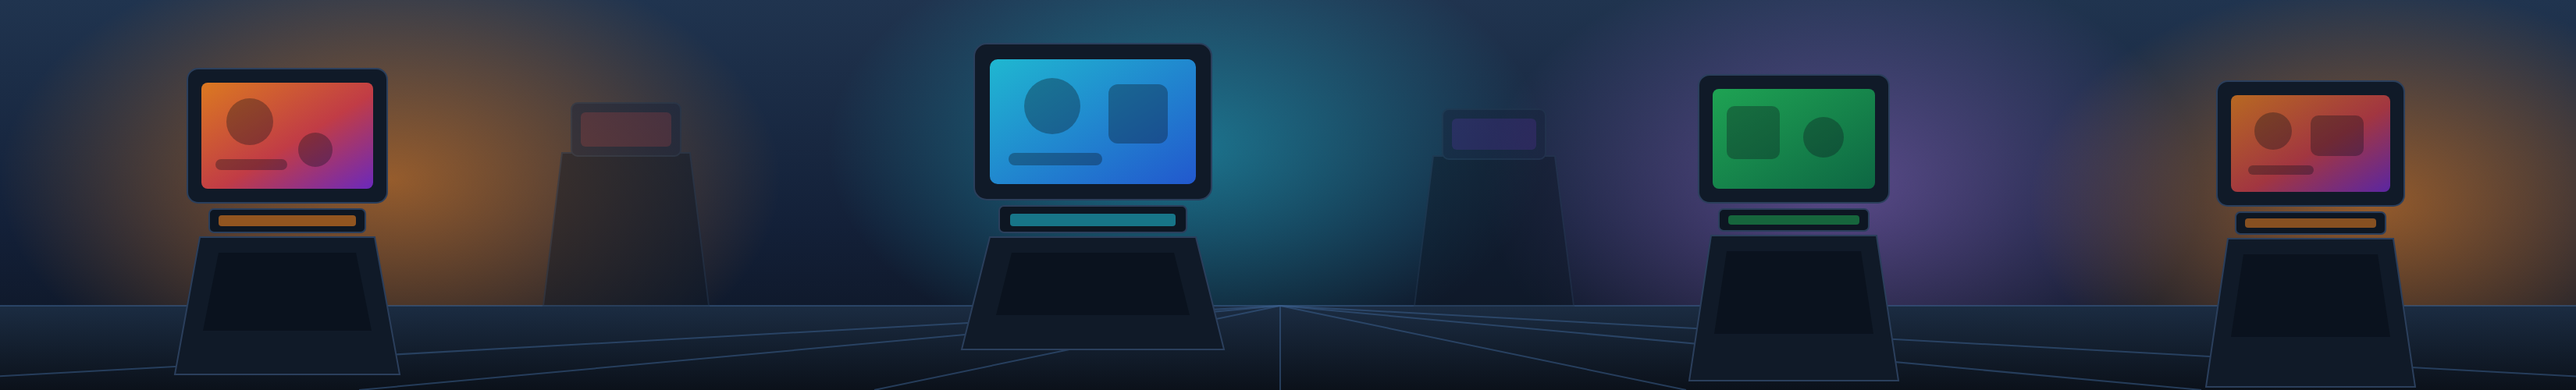
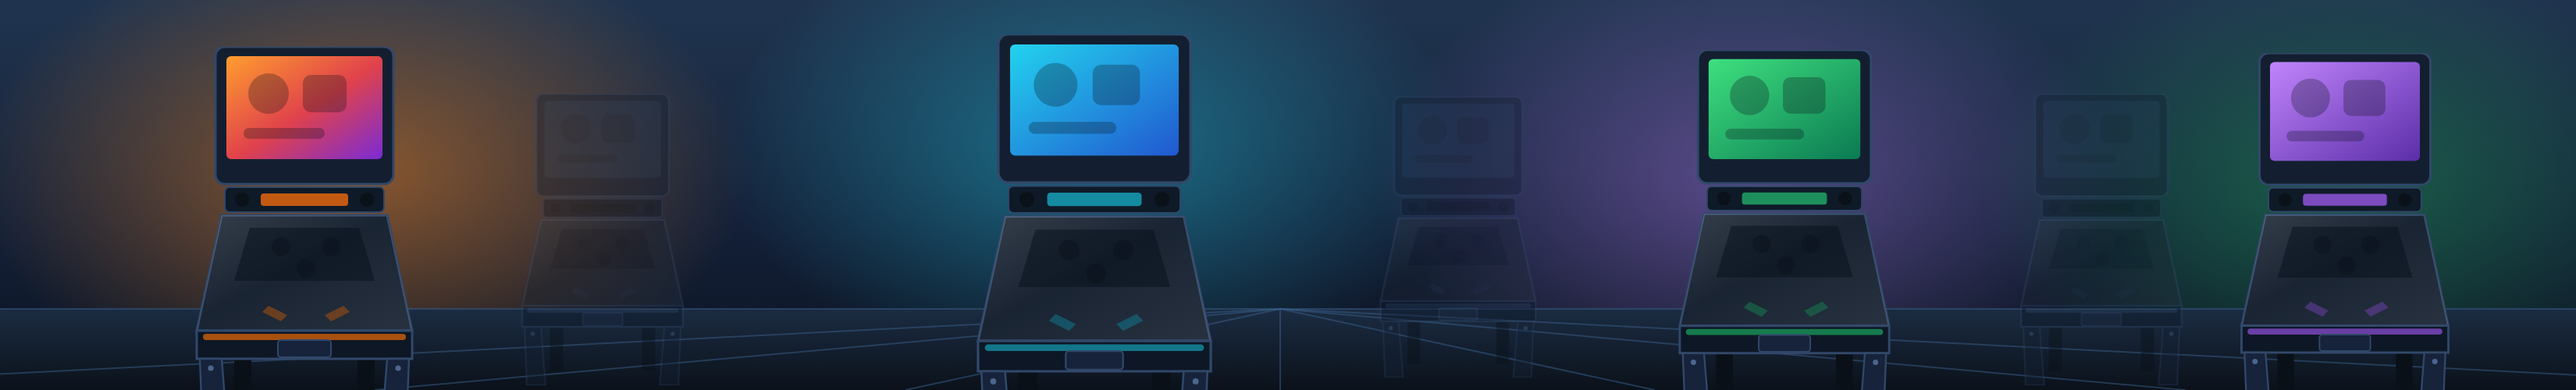
fix(ui): redraw the band as real pinball machines, give the table its height back
Two things Maxime called out on the first build, both fair.

The cabinets read as computer monitors on stands. They were missing the
one silhouette cue that says "pinball": legs. Redrawn with the full
shape -- upright backbox, speaker panel with a DMD slot, playfield glass
receding toward the player with bumpers and flippers under it, lockdown
rail, coin door, and four legs with bolts.

Also fixed while redrawing: the per-machine colours never applied,
because CSS class selectors do not reach inside the shadow tree a
<use> element creates. Switched to CSS custom properties, which do
inherit into it.

The findings table had been squeezed to about two rows. The band is now
noticeably shorter (smaller gauge, tighter pills and paddings) and the
search box moved out of it to sit directly above the list -- which is
also where it belongs, since it filters that list.

Gauge geometry changed, so the arc constant moved with it: 2*pi*45/8 =
35.34, now a named const next to the comment that explains it.

Claude-Session: https://claude.ai/code/session_01NWmCrQoX1352P64FHzaY6T

diff --git a/src/PincabToolbox.App/MainWindow.xaml b/src/PincabToolbox.App/MainWindow.xaml
@@ -158,7 +158,7 @@
                                 </LinearGradientBrush>
                             </Border.Background>
 
-                            <Grid Margin="20,16">
+                            <Grid Margin="18,11">
                                 <Grid.ColumnDefinitions>
                                     <ColumnDefinition Width="Auto"/>
                                     <ColumnDefinition Width="*"/>
@@ -166,13 +166,14 @@
                                 </Grid.ColumnDefinitions>
 
                                 <!-- ─── jauge ─── -->
-                                <Grid x:Name="ScoreChip" Grid.Column="0" Width="124" Height="124"
-                                      Visibility="Collapsed" Margin="0,0,20,0" VerticalAlignment="Center">
-                                    <Ellipse Width="106" Height="106" Stroke="#1E2B3C" StrokeThickness="9"/>
+                                <Grid x:Name="ScoreChip" Grid.Column="0" Width="102" Height="102"
+                                      Visibility="Collapsed" Margin="0,0,18,0" VerticalAlignment="Center">
+                                    <Ellipse Width="90" Height="90" Stroke="#1E2B3C" StrokeThickness="8"/>
                                     <!-- L'arc de progression est un cercle dont le tiret est calculé en
-                                         code-behind (RefreshList) : circonférence / épaisseur = 37.0 unités
-                                         pour 100 %. Pas de géométrie d'arc à recalculer à la main. -->
-                                    <Ellipse x:Name="ScoreArc" Width="106" Height="106" StrokeThickness="9"
+                                         code-behind (RefreshList) : circonférence / épaisseur = 35.34
+                                         unités pour 100 %. Pas de géométrie d'arc à recalculer à la main.
+                                         Si le diamètre ou l'épaisseur changent ici, ce nombre change aussi. -->
+                                    <Ellipse x:Name="ScoreArc" Width="90" Height="90" StrokeThickness="8"
                                              Stroke="{StaticResource Critical}" StrokeDashCap="Round"
                                              StrokeStartLineCap="Round" StrokeEndLineCap="Round"
                                              RenderTransformOrigin="0.5,0.5">
@@ -181,53 +182,48 @@
                                         </Ellipse.RenderTransform>
                                     </Ellipse>
                                     <StackPanel VerticalAlignment="Center" HorizontalAlignment="Center">
-                                        <TextBlock x:Name="ScoreValue" FontWeight="Black" FontSize="34"
+                                        <TextBlock x:Name="ScoreValue" FontWeight="Black" FontSize="27"
                                                    HorizontalAlignment="Center"/>
-                                        <TextBlock Text="/100" Foreground="{StaticResource TextDim}" FontSize="11"
-                                                   HorizontalAlignment="Center" Margin="0,-2,0,0"/>
-                                        <Border BorderBrush="{StaticResource Border}" BorderThickness="1"
-                                                CornerRadius="4" Padding="6,1" Margin="0,5,0,0"
-                                                HorizontalAlignment="Center">
-                                            <TextBlock x:Name="ScoreGrade" FontWeight="Bold" FontSize="11"/>
-                                        </Border>
+                                        <TextBlock x:Name="ScoreGrade" FontWeight="Bold" FontSize="10"
+                                                   HorizontalAlignment="Center" Margin="0,-1,0,0"/>
                                     </StackPanel>
                                 </Grid>
 
                                 <!-- ─── accroche + pastilles ─── -->
                                 <StackPanel Grid.Column="1" VerticalAlignment="Center">
-                                    <TextBlock x:Name="HeroHeadline" FontSize="20" FontWeight="Bold"
+                                    <TextBlock x:Name="HeroHeadline" FontSize="18" FontWeight="Bold"
                                                Foreground="{StaticResource Text}" TextWrapping="Wrap"/>
                                     <TextBlock x:Name="ScoreStatus" Foreground="{StaticResource TextDim}"
-                                               FontSize="13" TextWrapping="Wrap" Margin="0,4,0,0"/>
+                                               FontSize="12.5" TextWrapping="Wrap" Margin="0,3,0,0"/>
 
-                                    <WrapPanel Margin="0,12,0,0">
-                                        <Border x:Name="PillCritical" Background="{StaticResource Panel}" BorderBrush="{StaticResource Border}" BorderThickness="1" CornerRadius="10" Padding="12,7" Margin="0,0,8,6" Cursor="Hand" MouseLeftButtonUp="PillCritical_Click">
+                                    <WrapPanel Margin="0,9,0,0">
+                                        <Border x:Name="PillCritical" Background="{StaticResource Panel}" BorderBrush="{StaticResource Border}" BorderThickness="1" CornerRadius="9" Padding="10,5" Margin="0,0,7,5" Cursor="Hand" MouseLeftButtonUp="PillCritical_Click">
                                             <StackPanel Orientation="Horizontal">
-                                                <Rectangle Width="3" Height="22" RadiusX="1.5" RadiusY="1.5" Fill="{StaticResource Critical}" Margin="0,0,8,0"/>
+                                                <Rectangle Width="3" Height="17" RadiusX="1.5" RadiusY="1.5" Fill="{StaticResource Critical}" Margin="0,0,8,0"/>
                                                 <TextBlock x:Name="ChipCritical" Text="0" Foreground="{StaticResource Critical}" FontWeight="Bold" VerticalAlignment="Center"/>
                                             </StackPanel>
                                         </Border>
-                                        <Border x:Name="PillWarning" Background="{StaticResource Panel}" BorderBrush="{StaticResource Border}" BorderThickness="1" CornerRadius="10" Padding="12,7" Margin="0,0,8,6" Cursor="Hand" MouseLeftButtonUp="PillWarning_Click">
+                                        <Border x:Name="PillWarning" Background="{StaticResource Panel}" BorderBrush="{StaticResource Border}" BorderThickness="1" CornerRadius="9" Padding="10,5" Margin="0,0,7,5" Cursor="Hand" MouseLeftButtonUp="PillWarning_Click">
                                             <StackPanel Orientation="Horizontal">
-                                                <Rectangle Width="3" Height="22" RadiusX="1.5" RadiusY="1.5" Fill="{StaticResource Warning}" Margin="0,0,8,0"/>
+                                                <Rectangle Width="3" Height="17" RadiusX="1.5" RadiusY="1.5" Fill="{StaticResource Warning}" Margin="0,0,8,0"/>
                                                 <TextBlock x:Name="ChipWarning" Text="0" Foreground="{StaticResource Warning}" FontWeight="Bold" VerticalAlignment="Center"/>
                                             </StackPanel>
                                         </Border>
-                                        <Border x:Name="PillNote" Background="{StaticResource Panel}" BorderBrush="{StaticResource Border}" BorderThickness="1" CornerRadius="10" Padding="12,7" Margin="0,0,8,6" Cursor="Hand" MouseLeftButtonUp="PillNote_Click">
+                                        <Border x:Name="PillNote" Background="{StaticResource Panel}" BorderBrush="{StaticResource Border}" BorderThickness="1" CornerRadius="9" Padding="10,5" Margin="0,0,7,5" Cursor="Hand" MouseLeftButtonUp="PillNote_Click">
                                             <StackPanel Orientation="Horizontal">
-                                                <Rectangle Width="3" Height="22" RadiusX="1.5" RadiusY="1.5" Fill="{StaticResource NoteSev}" Margin="0,0,8,0"/>
+                                                <Rectangle Width="3" Height="17" RadiusX="1.5" RadiusY="1.5" Fill="{StaticResource NoteSev}" Margin="0,0,8,0"/>
                                                 <TextBlock x:Name="ChipNote" Text="0" Foreground="{StaticResource NoteSev}" FontWeight="Bold" VerticalAlignment="Center"/>
                                             </StackPanel>
                                         </Border>
-                                        <Border x:Name="PillInfo" Background="{StaticResource Panel}" BorderBrush="{StaticResource Border}" BorderThickness="1" CornerRadius="10" Padding="12,7" Margin="0,0,8,6" Cursor="Hand" MouseLeftButtonUp="PillInfo_Click">
+                                        <Border x:Name="PillInfo" Background="{StaticResource Panel}" BorderBrush="{StaticResource Border}" BorderThickness="1" CornerRadius="9" Padding="10,5" Margin="0,0,7,5" Cursor="Hand" MouseLeftButtonUp="PillInfo_Click">
                                             <StackPanel Orientation="Horizontal">
-                                                <Rectangle Width="3" Height="22" RadiusX="1.5" RadiusY="1.5" Fill="{StaticResource InfoSev}" Margin="0,0,8,0"/>
+                                                <Rectangle Width="3" Height="17" RadiusX="1.5" RadiusY="1.5" Fill="{StaticResource InfoSev}" Margin="0,0,8,0"/>
                                                 <TextBlock x:Name="ChipInfo" Text="0" Foreground="{StaticResource InfoSev}" FontWeight="Bold" VerticalAlignment="Center"/>
                                             </StackPanel>
                                         </Border>
-                                        <Border x:Name="PillOk" Background="{StaticResource Panel}" BorderBrush="{StaticResource Border}" BorderThickness="1" CornerRadius="10" Padding="12,7" Margin="0,0,8,6" Cursor="Hand" Opacity="0.4" MouseLeftButtonUp="PillOk_Click">
+                                        <Border x:Name="PillOk" Background="{StaticResource Panel}" BorderBrush="{StaticResource Border}" BorderThickness="1" CornerRadius="9" Padding="10,5" Margin="0,0,7,5" Cursor="Hand" Opacity="0.4" MouseLeftButtonUp="PillOk_Click">
                                             <StackPanel Orientation="Horizontal">
-                                                <Rectangle Width="3" Height="22" RadiusX="1.5" RadiusY="1.5" Fill="{StaticResource OkSev}" Margin="0,0,8,0"/>
+                                                <Rectangle Width="3" Height="17" RadiusX="1.5" RadiusY="1.5" Fill="{StaticResource OkSev}" Margin="0,0,8,0"/>
                                                 <TextBlock x:Name="ChipOk" Text="0" Foreground="{StaticResource OkSev}" FontWeight="Bold" VerticalAlignment="Center"/>
                                             </StackPanel>
                                         </Border>
@@ -235,18 +231,11 @@
                                 </StackPanel>
 
                                 <!-- ─── actions ─── -->
-                                <StackPanel Grid.Column="2" VerticalAlignment="Center" Width="212" Margin="18,0,0,0">
+                                <StackPanel Grid.Column="2" VerticalAlignment="Center" Width="206" Margin="16,0,0,0">
                                     <Button x:Name="BtnScan" Style="{StaticResource AccentButton}" Click="BtnScan_Click"
-                                            Padding="14,11" FontSize="14" FontWeight="Bold"/>
-                                    <Button x:Name="BtnExport" Margin="0,8,0,0" Click="BtnExport_Click" IsEnabled="False" Padding="10,8"/>
-                                    <Button x:Name="BtnCopyForum" Margin="0,8,0,0" Click="BtnCopyForum_Click" IsEnabled="False" Padding="10,8"/>
-                                    <Grid Height="34" Margin="0,8,0,0">
-                                        <TextBox x:Name="TxtSearch" VerticalContentAlignment="Center" Padding="6,0,0,0"
-                                                 Background="{StaticResource Panel}" Foreground="{StaticResource Text}"
-                                                 BorderBrush="{StaticResource Border}" TextChanged="TxtSearch_TextChanged"/>
-                                        <TextBlock x:Name="SearchHint" IsHitTestVisible="False" Foreground="{StaticResource TextDim}"
-                                                   VerticalAlignment="Center" Margin="9,0,0,0"/>
-                                    </Grid>
+                                            Padding="14,10" FontSize="14" FontWeight="Bold"/>
+                                    <Button x:Name="BtnExport" Margin="0,7,0,0" Click="BtnExport_Click" IsEnabled="False" Padding="10,7"/>
+                                    <Button x:Name="BtnCopyForum" Margin="0,7,0,0" Click="BtnCopyForum_Click" IsEnabled="False" Padding="10,7"/>
                                 </StackPanel>
                             </Grid>
                         </Border>
@@ -271,6 +260,16 @@
                         <!-- Écran 1 — free aggregate offer, computed by RepairOfferBuilder from the real plan -->
                         <TextBlock x:Name="RepairSummaryLine" Visibility="Collapsed" Foreground="{StaticResource Accent}"
                                    FontSize="12.5" FontWeight="SemiBold" TextWrapping="Wrap" Margin="2,0,2,6"/>
+
+                        <!-- La recherche filtre la LISTE : sa place est juste au-dessus d'elle, pas dans
+                             le bandeau, où elle volait de la hauteur au tableau des résultats. -->
+                        <Grid Width="260" Height="30" HorizontalAlignment="Right" Margin="0,0,0,6">
+                            <TextBox x:Name="TxtSearch" VerticalContentAlignment="Center" Padding="6,0,0,0"
+                                     Background="{StaticResource Panel}" Foreground="{StaticResource Text}"
+                                     BorderBrush="{StaticResource Border}" TextChanged="TxtSearch_TextChanged"/>
+                            <TextBlock x:Name="SearchHint" IsHitTestVisible="False" Foreground="{StaticResource TextDim}"
+                                       VerticalAlignment="Center" Margin="9,0,0,0"/>
+                        </Grid>
                         <!-- ADR-006 anti-survente : ce que Repair NE fera jamais, même une fois acheté
                              (RepairOffer.NotAutomatable) — affiché AVANT l'achat, jamais caché. -->
                         <TextBlock x:Name="RepairNotAutomatableLine" Visibility="Collapsed" Foreground="{StaticResource TextDim}"

diff --git a/docs/maquette-scanner-2026-08-11.html b/docs/maquette-scanner-2026-08-11.html
@@ -334,120 +334,115 @@ body{
 
         <!-- Scène de salle d'arcade, dessinée à la main en SVG.
              Silhouettes génériques : aucune machine réelle, aucun artwork sous copyright. -->
-        <svg class="scene" viewBox="0 0 1650 250" preserveAspectRatio="xMidYMin slice">
-          <defs>
-            <linearGradient id="room" x1="0" y1="0" x2="0" y2="1">
-              <stop offset="0%" stop-color="#20344f"/>
-              <stop offset="58%" stop-color="#132038"/><stop offset="100%" stop-color="#0c1320"/>
-            </linearGradient>
-            <radialGradient id="neonO" cx="50%" cy="50%" r="50%">
-              <stop offset="0%" stop-color="#ff8a1f" stop-opacity=".55"/>
-              <stop offset="100%" stop-color="#ff8a1f" stop-opacity="0"/>
-            </radialGradient>
-            <radialGradient id="neonC" cx="50%" cy="50%" r="50%">
-              <stop offset="0%" stop-color="#22d3ee" stop-opacity=".45"/>
-              <stop offset="100%" stop-color="#22d3ee" stop-opacity="0"/>
-            </radialGradient>
-            <radialGradient id="neonP" cx="50%" cy="50%" r="50%">
-              <stop offset="0%" stop-color="#c084fc" stop-opacity=".4"/>
-              <stop offset="100%" stop-color="#c084fc" stop-opacity="0"/>
-            </radialGradient>
-            <linearGradient id="glassA" x1="0" y1="0" x2="1" y2="1">
-              <stop offset="0%" stop-color="#ff8a1f"/><stop offset="55%" stop-color="#e0424b"/>
-              <stop offset="100%" stop-color="#7b2bd6"/>
-            </linearGradient>
-            <linearGradient id="glassB" x1="0" y1="0" x2="1" y2="1">
-              <stop offset="0%" stop-color="#22d3ee"/><stop offset="100%" stop-color="#2563eb"/>
-            </linearGradient>
-            <linearGradient id="glassC" x1="0" y1="0" x2="1" y2="1">
-              <stop offset="0%" stop-color="#22c55e"/><stop offset="100%" stop-color="#0d7a4a"/>
-            </linearGradient>
-            <linearGradient id="floor" x1="0" y1="0" x2="0" y2="1">
-              <stop offset="0%" stop-color="#1b2c42"/><stop offset="100%" stop-color="#0b111a"/>
-            </linearGradient>
-          </defs>
+        <svg class="scene" viewBox="0 0 1650 250" xmlns="http://www.w3.org/2000/svg">
+  <defs>
+    <linearGradient id="room" x1="0" y1="0" x2="0" y2="1">
+      <stop offset="0%" stop-color="#20344f"/><stop offset="58%" stop-color="#132038"/>
+      <stop offset="100%" stop-color="#0c1320"/>
+    </linearGradient>
+    <linearGradient id="floor" x1="0" y1="0" x2="0" y2="1">
+      <stop offset="0%" stop-color="#1b2c42"/><stop offset="100%" stop-color="#0b111a"/>
+    </linearGradient>
+    <radialGradient id="neonO" cx="50%" cy="50%" r="50%">
+      <stop offset="0%" stop-color="#ff8a1f" stop-opacity=".5"/><stop offset="100%" stop-color="#ff8a1f" stop-opacity="0"/>
+    </radialGradient>
+    <radialGradient id="neonC" cx="50%" cy="50%" r="50%">
+      <stop offset="0%" stop-color="#22d3ee" stop-opacity=".42"/><stop offset="100%" stop-color="#22d3ee" stop-opacity="0"/>
+    </radialGradient>
+    <radialGradient id="neonP" cx="50%" cy="50%" r="50%">
+      <stop offset="0%" stop-color="#c084fc" stop-opacity=".4"/><stop offset="100%" stop-color="#c084fc" stop-opacity="0"/>
+    </radialGradient>
+    <radialGradient id="neonG" cx="50%" cy="50%" r="50%">
+      <stop offset="0%" stop-color="#22c55e" stop-opacity=".36"/><stop offset="100%" stop-color="#22c55e" stop-opacity="0"/>
+    </radialGradient>
 
-          <rect width="1650" height="250" fill="url(#room)"/>
-          <!-- halos néon d'ambiance -->
-          <ellipse cx="250" cy="115" rx="250" ry="150" fill="url(#neonO)"/>
-          <ellipse cx="760" cy="95" rx="230" ry="140" fill="url(#neonC)"/>
-          <ellipse cx="1180" cy="120" rx="230" ry="150" fill="url(#neonP)"/>
-          <ellipse cx="1520" cy="130" rx="220" ry="140" fill="url(#neonO)"/>
+    <linearGradient id="bgA" x1="0" y1="0" x2="1" y2="1">
+      <stop offset="0%" stop-color="#ff9d2f"/><stop offset="52%" stop-color="#e0424b"/><stop offset="100%" stop-color="#7b2bd6"/>
+    </linearGradient>
+    <linearGradient id="bgB" x1="0" y1="0" x2="1" y2="1">
+      <stop offset="0%" stop-color="#22d3ee"/><stop offset="100%" stop-color="#2158d0"/>
+    </linearGradient>
+    <linearGradient id="bgC" x1="0" y1="0" x2="1" y2="1">
+      <stop offset="0%" stop-color="#3ee07f"/><stop offset="100%" stop-color="#0b7a52"/>
+    </linearGradient>
+    <linearGradient id="bgD" x1="0" y1="0" x2="1" y2="1">
+      <stop offset="0%" stop-color="#c084fc"/><stop offset="100%" stop-color="#5b2ea8"/>
+    </linearGradient>
+    <!-- verre du plateau : reflet en diagonale -->
+    <linearGradient id="glass" x1="0" y1="0" x2="1" y2="1">
+      <stop offset="0%" stop-color="#ffffff" stop-opacity=".16"/>
+      <stop offset="45%" stop-color="#ffffff" stop-opacity=".04"/>
+      <stop offset="100%" stop-color="#ffffff" stop-opacity=".10"/>
+    </linearGradient>
 
-          <!-- sol en perspective -->
-          <rect y="196" width="1650" height="54" fill="url(#floor)"/>
-          <g stroke="#3a5f8c" stroke-opacity=".55" stroke-width="1">
-            <line x1="0" y1="196" x2="1650" y2="196"/>
-            <line x1="820" y1="196" x2="-160" y2="250"/><line x1="820" y1="196" x2="230" y2="250"/>
-            <line x1="820" y1="196" x2="560" y2="250"/><line x1="820" y1="196" x2="820" y2="250"/>
-            <line x1="820" y1="196" x2="1080" y2="250"/><line x1="820" y1="196" x2="1410" y2="250"/>
-            <line x1="820" y1="196" x2="1810" y2="250"/>
-          </g>
+    <!-- UN FLIPPER : fronton vertical, panneau haut-parleurs, plateau vitré en fuite,
+         fronton de caisse avec monnayeur, et surtout QUATRE PIEDS — c'est le pied qui
+         fait lire "flipper" plutôt qu'"écran sur socle". -->
+    <symbol id="cab" viewBox="0 0 150 250">
+      <!-- pieds arrière (derrière la caisse) -->
+      <rect x="30" y="168" width="11" height="70" rx="2" fill="#0a1017"/>
+      <rect x="109" y="168" width="11" height="70" rx="2" fill="#0a1017"/>
+      <!-- fronton -->
+      <rect x="18" y="0" width="114" height="88" rx="6" fill="#131f30" stroke="#31486a" stroke-width="1.5"/>
+      <rect x="25" y="6" width="100" height="66" rx="3" fill="var(--bg,#22344e)"/>
+      <g fill="#0a111a" opacity=".28">
+        <circle cx="52" cy="30" r="13"/><rect x="74" y="18" width="28" height="24" rx="5"/>
+        <rect x="36" y="52" width="52" height="7" rx="3.5"/>
+      </g>
+      <!-- panneau haut-parleurs + afficheur -->
+      <rect x="24" y="90" width="102" height="16" rx="3" fill="#0f1a28" stroke="#31486a"/>
+      <circle cx="35" cy="98" r="4.5" fill="#0a1119"/><circle cx="115" cy="98" r="4.5" fill="#0a1119"/>
+      <rect x="47" y="94" width="56" height="8" rx="2" fill="var(--dmd,#0a1119)"/>
+      <!-- plateau vitré, en fuite vers le joueur -->
+      <path d="M22 108 L128 108 L144 182 L6 182 Z" fill="#101b2a" stroke="#31486a" stroke-width="1.5"/>
+      <path d="M22 108 L128 108 L144 182 L6 182 Z" fill="url(#glass)"/>
+      <path d="M40 116 L110 116 L120 150 L30 150 Z" fill="#0a121d" opacity=".55"/>
+      <g fill="#0a121d" opacity=".5">
+        <circle cx="60" cy="128" r="6"/><circle cx="92" cy="128" r="6"/><circle cx="76" cy="142" r="6"/>
+      </g>
+      <g fill="var(--rail,#2a3d5a)" opacity=".55">
+        <path d="M52 166 L64 172 L60 176 L48 170 Z"/><path d="M100 166 L88 172 L92 176 L104 170 Z"/>
+      </g>
+      <!-- fronton de caisse + monnayeur -->
+      <path d="M6 182 L144 182 L144 200 L6 200 Z" fill="#0d1725" stroke="#31486a" stroke-width="1.5"/>
+      <rect x="10" y="184" width="130" height="4" rx="2" fill="var(--rail,#2a3d5a)"/>
+      <rect x="58" y="188" width="34" height="11" rx="2" fill="#16233a" stroke="#31486a"/>
+      <!-- pieds avant + boulons -->
+      <path d="M8 200 L22 200 L26 250 L10 250 Z" fill="#16233a" stroke="#31486a" stroke-width="1.2"/>
+      <path d="M128 200 L142 200 L140 250 L124 250 Z" fill="#16233a" stroke="#31486a" stroke-width="1.2"/>
+      <circle cx="15" cy="206" r="1.8" fill="#4a668f"/><circle cx="135" cy="206" r="1.8" fill="#4a668f"/>
+    </symbol>
+  </defs>
 
-          <!-- rangée de bornes : backbox (écran) + caisse en perspective -->
-          <g>
-            <!-- borne 1 -->
-            <g transform="translate(120,44)">
-              <rect x="0" y="0" width="128" height="86" rx="7" fill="#101a28" stroke="#2b3f5c"/>
-              <rect x="9" y="9" width="110" height="68" rx="4" fill="url(#glassA)" opacity=".85"/>
-              <g fill="#0b111a" opacity=".33">
-                <circle cx="40" cy="34" r="15"/><circle cx="82" cy="52" r="11"/>
-                <rect x="18" y="58" width="46" height="7" rx="3.5"/>
-              </g>
-              <rect x="14" y="90" width="100" height="15" rx="3" fill="#0d1622" stroke="#2b3f5c"/>
-              <rect x="20" y="94" width="88" height="7" rx="2" fill="#ff8a1f" opacity=".55"/>
-              <path d="M8 108 L120 108 L136 196 L-8 196 Z" fill="#101a28" stroke="#2b3f5c"/>
-              <path d="M20 118 L108 118 L118 168 L10 168 Z" fill="#0a121d" opacity=".9"/>
-            </g>
-            <!-- borne 2 (centrale, plus grande) -->
-            <g transform="translate(624,28)">
-              <rect x="0" y="0" width="152" height="100" rx="8" fill="#101a28" stroke="#2b3f5c"/>
-              <rect x="10" y="10" width="132" height="80" rx="5" fill="url(#glassB)" opacity=".85"/>
-              <g fill="#0b111a" opacity=".33">
-                <circle cx="50" cy="40" r="18"/><rect x="86" y="26" width="38" height="38" rx="6"/>
-                <rect x="22" y="70" width="60" height="8" rx="4"/>
-              </g>
-              <rect x="16" y="104" width="120" height="17" rx="3" fill="#0d1622" stroke="#2b3f5c"/>
-              <rect x="23" y="109" width="106" height="8" rx="2" fill="#22d3ee" opacity=".5"/>
-              <path d="M10 124 L142 124 L160 196 L-8 196 Z" fill="#101a28" stroke="#2b3f5c"/>
-              <path d="M24 134 L128 134 L138 174 L14 174 Z" fill="#0a121d" opacity=".9"/>
-            </g>
-            <!-- borne 3 -->
-            <g transform="translate(1088,48)">
-              <rect x="0" y="0" width="122" height="82" rx="7" fill="#101a28" stroke="#2b3f5c"/>
-              <rect x="9" y="9" width="104" height="64" rx="4" fill="url(#glassC)" opacity=".8"/>
-              <g fill="#0b111a" opacity=".33">
-                <rect x="18" y="20" width="34" height="34" rx="5"/><circle cx="80" cy="40" r="13"/>
-              </g>
-              <rect x="13" y="86" width="96" height="14" rx="3" fill="#0d1622" stroke="#2b3f5c"/>
-              <rect x="19" y="90" width="84" height="6" rx="2" fill="#22c55e" opacity=".45"/>
-              <path d="M8 103 L114 103 L128 196 L-6 196 Z" fill="#101a28" stroke="#2b3f5c"/>
-              <path d="M18 113 L104 113 L112 166 L10 166 Z" fill="#0a121d" opacity=".9"/>
-            </g>
-            <!-- bornes du fond : mêmes formes, valeur écrasée pour créer la profondeur -->
-            <g opacity=".5">
-              <path d="M360 98 L442 98 L454 196 L348 196 Z" fill="#0e1826" stroke="#22364f"/>
-              <rect x="366" y="66" width="70" height="34" rx="4" fill="#16233a" stroke="#22364f"/>
-              <rect x="372" y="72" width="58" height="22" rx="3" fill="#e0424b" opacity=".34"/>
-              <path d="M918 100 L996 100 L1008 196 L906 196 Z" fill="#0e1826" stroke="#22364f"/>
-              <rect x="924" y="70" width="66" height="32" rx="4" fill="#16233a" stroke="#22364f"/>
-              <rect x="930" y="76" width="54" height="20" rx="3" fill="#7b2bd6" opacity=".34"/>
-            </g>
-            <!-- borne 4, à droite -->
-            <g transform="translate(1420,52)">
-              <rect x="0" y="0" width="120" height="80" rx="7" fill="#101a28" stroke="#2b3f5c"/>
-              <rect x="9" y="9" width="102" height="62" rx="4" fill="url(#glassA)" opacity=".7"/>
-              <g fill="#0b111a" opacity=".33">
-                <circle cx="36" cy="32" r="12"/><rect x="60" y="22" width="34" height="26" rx="5"/>
-                <rect x="20" y="54" width="42" height="6" rx="3"/>
-              </g>
-              <rect x="12" y="84" width="96" height="14" rx="3" fill="#0d1622" stroke="#2b3f5c"/>
-              <rect x="18" y="88" width="84" height="6" rx="2" fill="#ff8a1f" opacity=".5"/>
-              <path d="M7 101 L113 101 L127 196 L-7 196 Z" fill="#101a28" stroke="#2b3f5c"/>
-              <path d="M17 111 L103 111 L111 164 L9 164 Z" fill="#0a121d" opacity=".9"/>
-            </g>
-          </g>
-        </svg>
+  <rect width="1650" height="250" fill="url(#room)"/>
+  <ellipse cx="230" cy="110" rx="250" ry="150" fill="url(#neonO)"/>
+  <ellipse cx="700" cy="95"  rx="240" ry="145" fill="url(#neonC)"/>
+  <ellipse cx="1120" cy="115" rx="240" ry="150" fill="url(#neonP)"/>
+  <ellipse cx="1500" cy="120" rx="230" ry="145" fill="url(#neonG)"/>
+
+  <!-- sol -->
+  <rect y="198" width="1650" height="52" fill="url(#floor)"/>
+  <g stroke="#3a5f8c" stroke-opacity=".5" stroke-width="1">
+    <line x1="0" y1="198" x2="1650" y2="198"/>
+    <line x1="820" y1="198" x2="-200" y2="250"/><line x1="820" y1="198" x2="240" y2="250"/>
+    <line x1="820" y1="198" x2="580" y2="250"/><line x1="820" y1="198" x2="820" y2="250"/>
+    <line x1="820" y1="198" x2="1060" y2="250"/><line x1="820" y1="198" x2="1400" y2="250"/>
+    <line x1="820" y1="198" x2="1840" y2="250"/>
+  </g>
+
+  <!-- rangée du fond, valeur écrasée pour la profondeur -->
+  <g opacity=".38">
+    <use href="#cab" x="330" y="60" width="112" height="187"/>
+    <use href="#cab" x="880" y="62" width="108" height="180"/>
+    <use href="#cab" x="1290" y="60" width="112" height="187"/>
+  </g>
+
+  <!-- rangée principale -->
+  <g style="--bg:url(#bgA);--dmd:#c25a12;--rail:#a8500f"><use href="#cab" x="120" y="30" width="150" height="250"/></g>
+  <g style="--bg:url(#bgB);--dmd:#158ba1;--rail:#12768a"><use href="#cab" x="620" y="22" width="162" height="270"/></g>
+  <g style="--bg:url(#bgC);--dmd:#1d8f5c;--rail:#177a4e"><use href="#cab" x="1070" y="32" width="146" height="243"/></g>
+  <g style="--bg:url(#bgD);--dmd:#7c4bbf;--rail:#6a3fa5"><use href="#cab" x="1430" y="34" width="144" height="240"/></g>
+</svg>
         <div class="scene-veil"></div>
         <div class="scanlines"></div>
 

diff --git a/src/PincabToolbox.App/MainWindow.xaml.cs b/src/PincabToolbox.App/MainWindow.xaml.cs
@@ -625,11 +625,13 @@ public partial class MainWindow : Window
         ScoreGrade.Foreground = scoreBrush;
 
         // Arc de la jauge (bandeau, maquette 11/08). StrokeDashArray se compte en MULTIPLES de
-        // l'épaisseur du trait, pas en pixels : circonférence (2·π·53) ÷ épaisseur (9) = 37.0
+        // l'épaisseur du trait, pas en pixels : circonférence (2·π·45) ÷ épaisseur (8) = 35.34
         // unités pour un tour complet. Le second segment, volontairement énorme, garantit qu'il
-        // n'y a jamais de second tiret visible.
+        // n'y a jamais de second tiret visible. Si le diamètre ou l'épaisseur de l'Ellipse
+        // changent dans MainWindow.xaml, cette constante doit changer avec eux.
+        const double fullTurn = 35.34;
         ScoreArc.Stroke = scoreBrush;
-        ScoreArc.StrokeDashArray = new DoubleCollection { 37.0 * Math.Max(0, Math.Min(100, _report.Score)) / 100.0, 1000 };
+        ScoreArc.StrokeDashArray = new DoubleCollection { fullTurn * Math.Max(0, Math.Min(100, _report.Score)) / 100.0, 1000 };
 
         // Accroche : ce que l'utilisateur doit retenir en une ligne. Le nombre de bloquants informe,
         // là où la seule note "F" juge — voir docs/REVUE-maquettes-scanner-2026-08-11.md.
